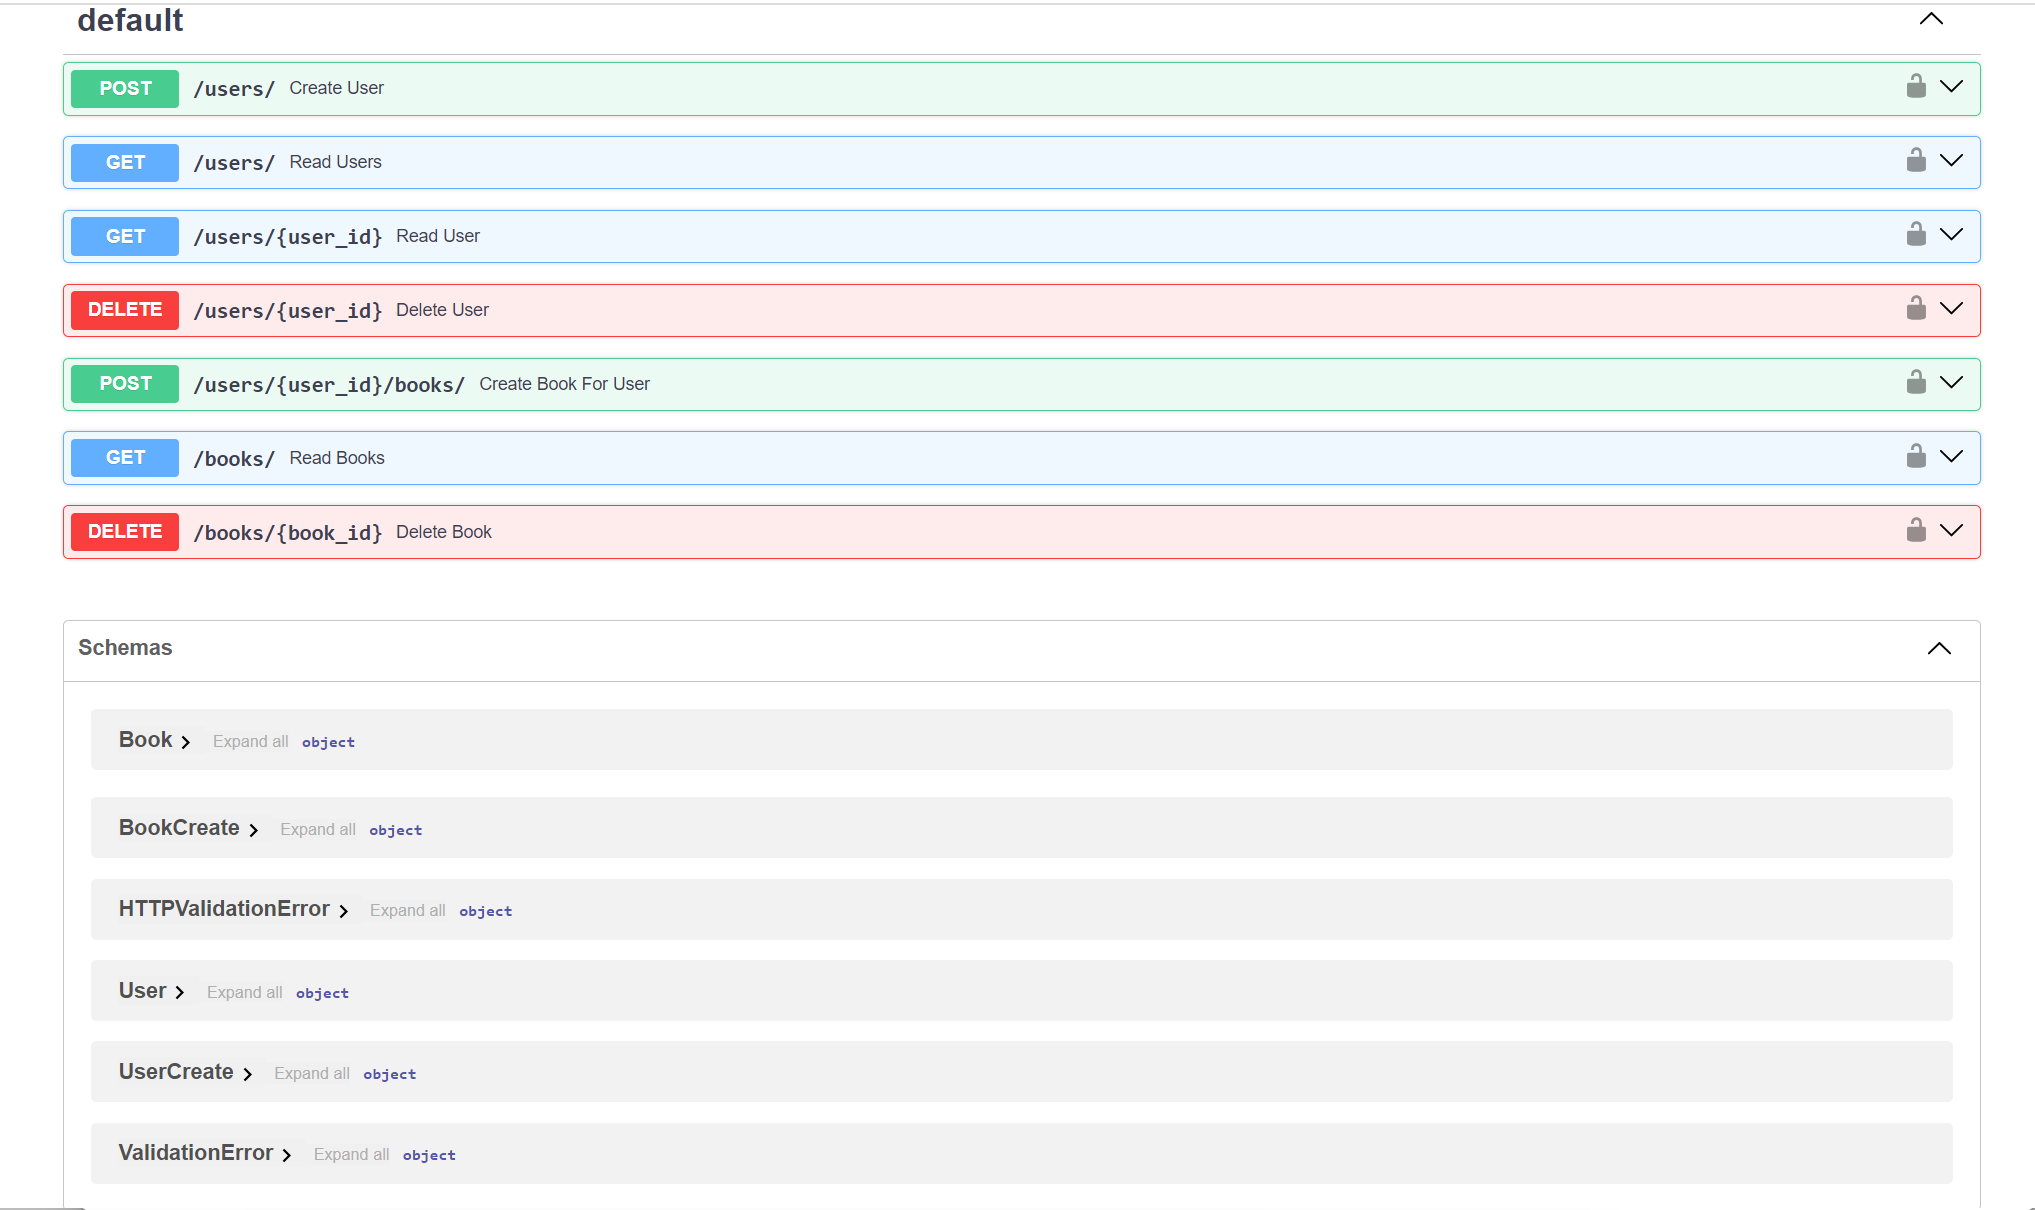
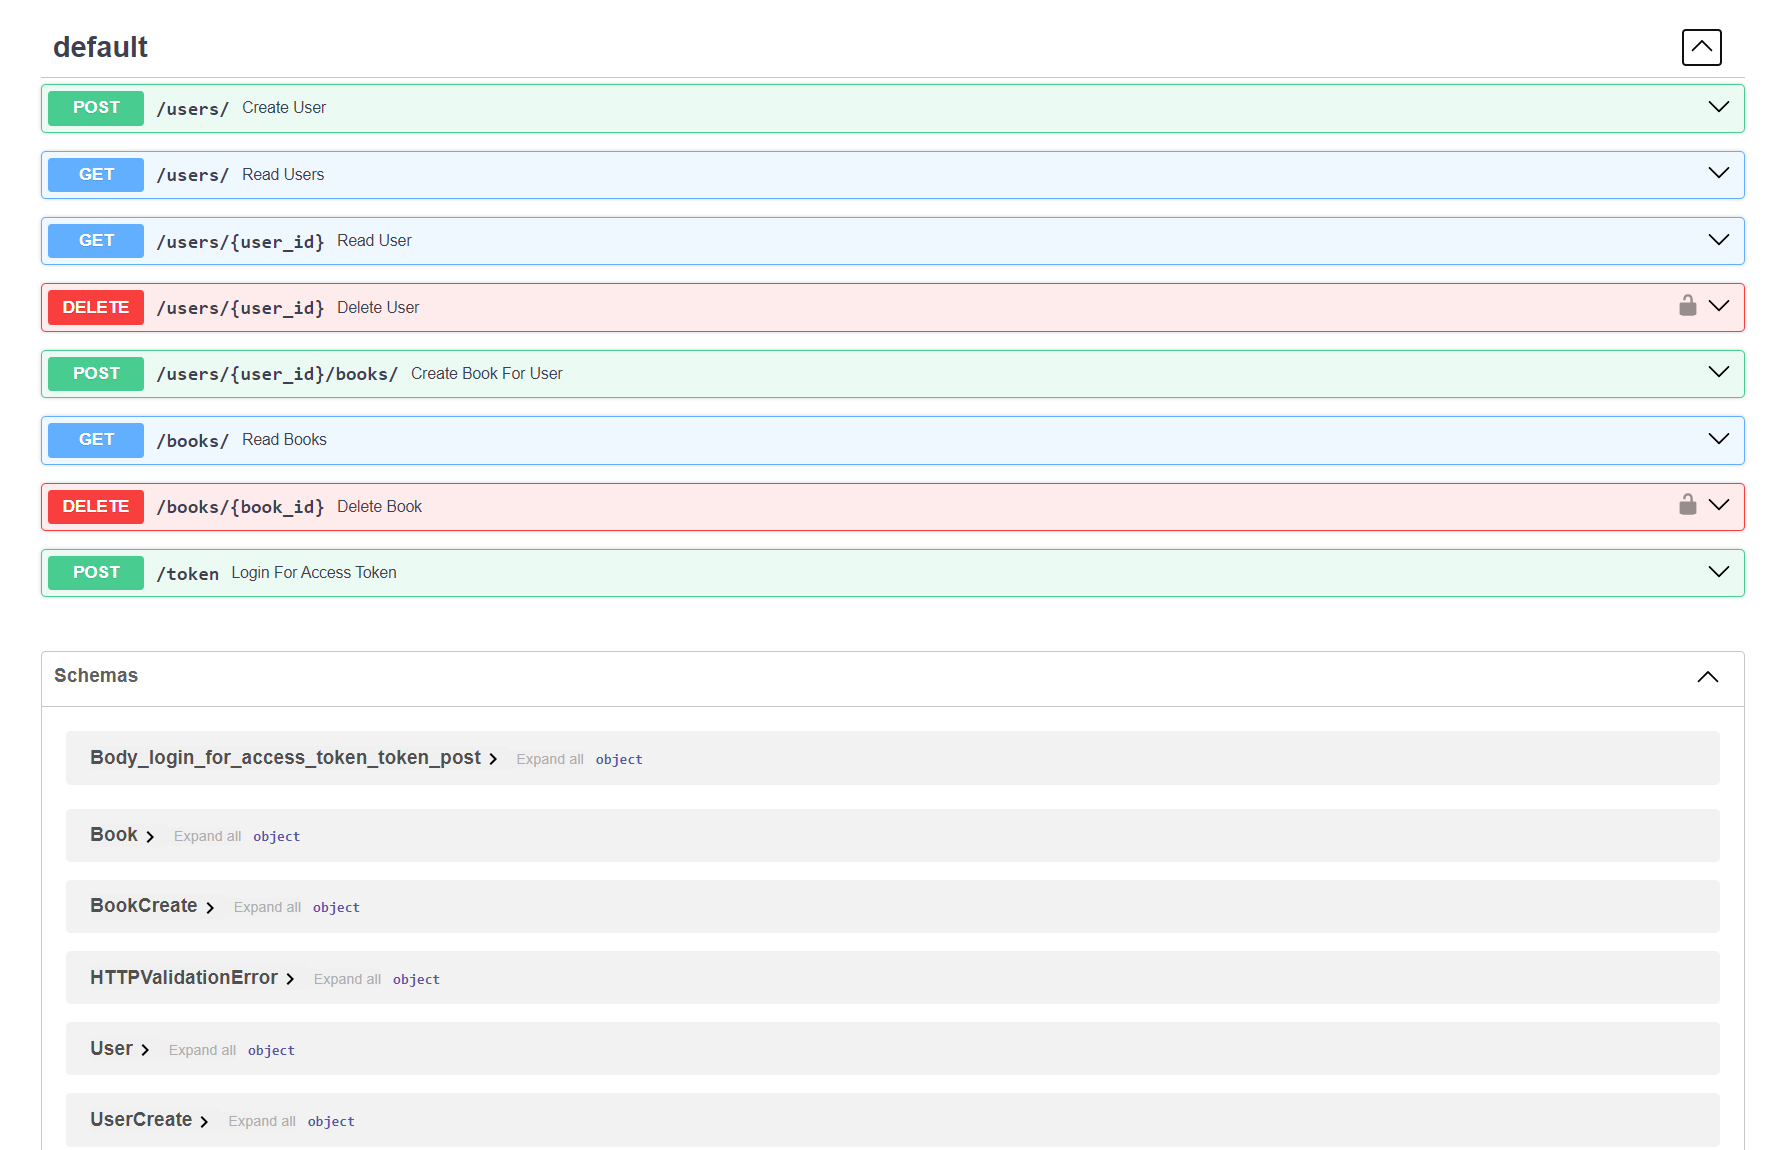
werk pls

Changed region(s): [[0.0, 0.0, 0.9688, 0.5478], [0.0312, 0.5783, 0.3438, 0.913], [0.0625, 0.9435, 0.2188, 1.0]]

diff --git a/myproject/main.py b/myproject/main.py
@@ -23,10 +23,8 @@ print("Tables created.......")
 app = FastAPI()
 
 
-oauth2_scheme = OAuth2PasswordBearer(tokenUrl="token")
-
 origins = [
-    "*"
+    "https://jurnwynants.github.io"
 ]
 
 app.add_middleware(
@@ -36,6 +34,8 @@ app.add_middleware(
     allow_methods=["*"],
     allow_headers=["*"],
 )
+
+oauth2_scheme = OAuth2PasswordBearer(tokenUrl="token")
 
 # Dependency
 def get_db():
